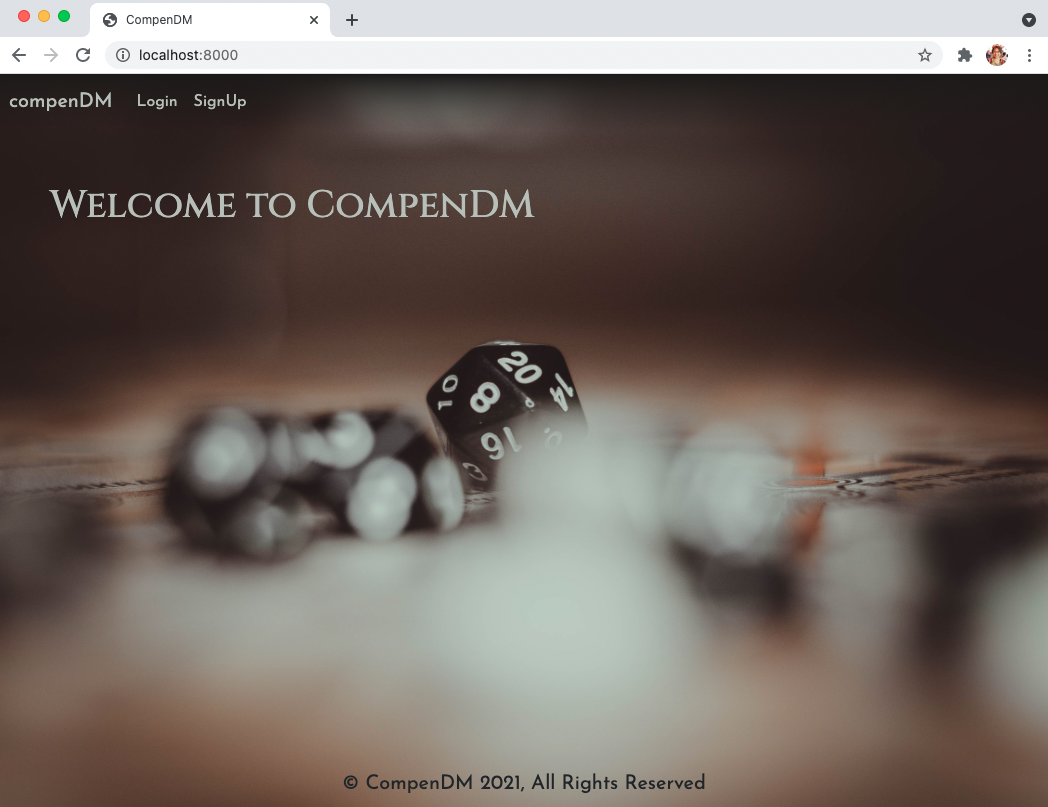
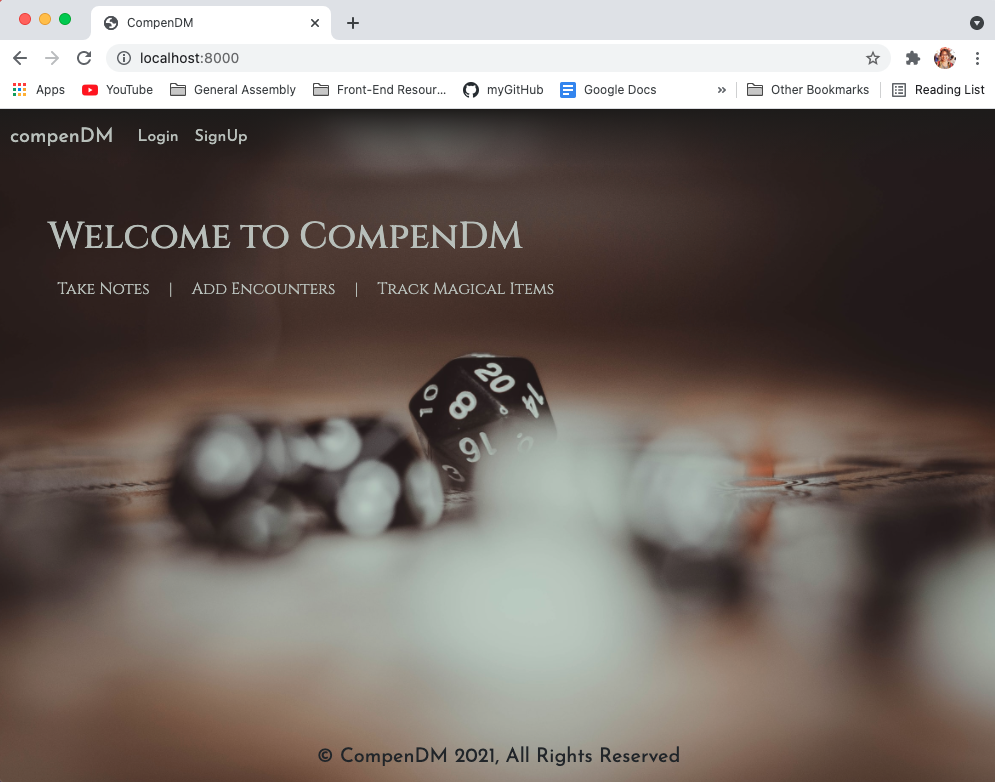
added animations to the homepage

diff --git a/main_app/templates/index.html b/main_app/templates/index.html
@@ -5,6 +5,10 @@
     <meta charset="UTF-8">
     <meta http-equiv="X-UA-Compatible" content="IE=edge">
     <meta name="viewport" content="width=device-width, initial-scale=1.0">
+    {% comment %} animation import {% endcomment %}
+    <link
+    rel="stylesheet"
+    href="https://cdnjs.cloudflare.com/ajax/libs/animate.css/4.1.1/animate.min.css"/>
     {% comment %} bootstrap import {% endcomment %}
     <link href="https://cdn.jsdelivr.net/npm/bootstrap@5.0.2/dist/css/bootstrap.min.css" rel="stylesheet" integrity="sha384-EVSTQN3/azprG1Anm3QDgpJLIm9Nao0Yz1ztcQTwFspd3yD65VohhpuuCOmLASjC" crossorigin="anonymous">
     {% comment %} font imports {% endcomment %}
@@ -15,6 +19,7 @@
     <title>CompenDM</title>
 </head>
     <body>
+    <main class="index-wrapper animate__animated animate__fadeIn animate__slower">
         <div class="index__content">
         <nav class="navbar navbar-expand-lg nav__top">
             <div class="container-fluid">
@@ -43,8 +48,15 @@
             </div>
             </div>
         </nav>
-        <div class="index__info">
-            <h1 class="index__header">Welcome to CompenDM</h1>
+        <div class="index__info ">
+            <h1 class="index__header animate__animated  animate__fadeIn animate__slower animate__delay-2s">Welcome to CompenDM</h1>
+            <div class="index__subheader">
+                <p class="subheader_point animate__animated animate__fadeInUp animate__delay-3s">Take Notes</p>
+                <p class="subheader_point animate__animated animate__fadeInUp animate__delay-3s">|</p>
+                <p class="subheader_point animate__animated animate__fadeInUp animate__delay-4s">Add Encounters</p>
+                <p class="subheader_point animate__animated animate__fadeInUp animate__delay-4s">|</p>
+                <p class="subheader_point animate__animated animate__fadeInUp animate__delay-5s">Track Magical Items</p>
+            </div>
         </div>
         </div>
         <nav class="navbar fixed-bottom nav__bottom">
@@ -52,6 +64,7 @@
                 <div class="navbar-brand footer_text">© CompenDM 2021, All Rights Reserved</div>
             </div>
         </nav>
+        </main>
         <script src="https://cdn.jsdelivr.net/npm/bootstrap@5.0.2/dist/js/bootstrap.bundle.min.js" integrity="sha384-MrcW6ZMFYlzcLA8Nl+NtUVF0sA7MsXsP1UyJoMp4YLEuNSfAP+JcXn/tWtIaxVXM" crossorigin="anonymous"></script>
 </body>
 </html>

diff --git a/main_app/static/style.css b/main_app/static/style.css
@@ -1,3 +1,7 @@
+.index-wrapper{
+    background-color: black;
+}
+
 .footer_text{
     margin: 0;
 }
@@ -32,8 +36,20 @@
 }
 
 .index__header{
-    padding: 5%;
+    padding: 5% 5% 0 5%;
     font-family: 'Cinzel', serif;
+}
+
+.index__subheader{
+    padding-left: 5%;
+    display: flex;
+    flex-wrap: wrap;
+    flex-direction: row;
+}
+.subheader_point{
+    padding: 1%;
+    font-family: 'Cinzel', serif;
+    color: #B8BFB9;
 }
 
 .footer_text{

diff --git a/main_app/templates/profile.html b/main_app/templates/profile.html
@@ -33,7 +33,7 @@
 </div>
 
 {% else %}
-    <p>You have no journals yet.</p>
+    <div class="no_data">You have no journals yet.</div>
     {% endif %}
     
 

diff --git a/main_app/static/profile.css b/main_app/static/profile.css
@@ -59,3 +59,8 @@
 img{
     width: 40%;
 }
+
+.no_data{
+    text-align: center;
+    font-style: italic;
+}

diff --git a/README.md b/README.md
@@ -105,6 +105,7 @@ Additional known issues are:
 ## Tech Stack
 - django
 - Bootstrap v5.0
+- Animate.css
 
 ## Set Up
 1. Fork and Clone this respository to your local machine
